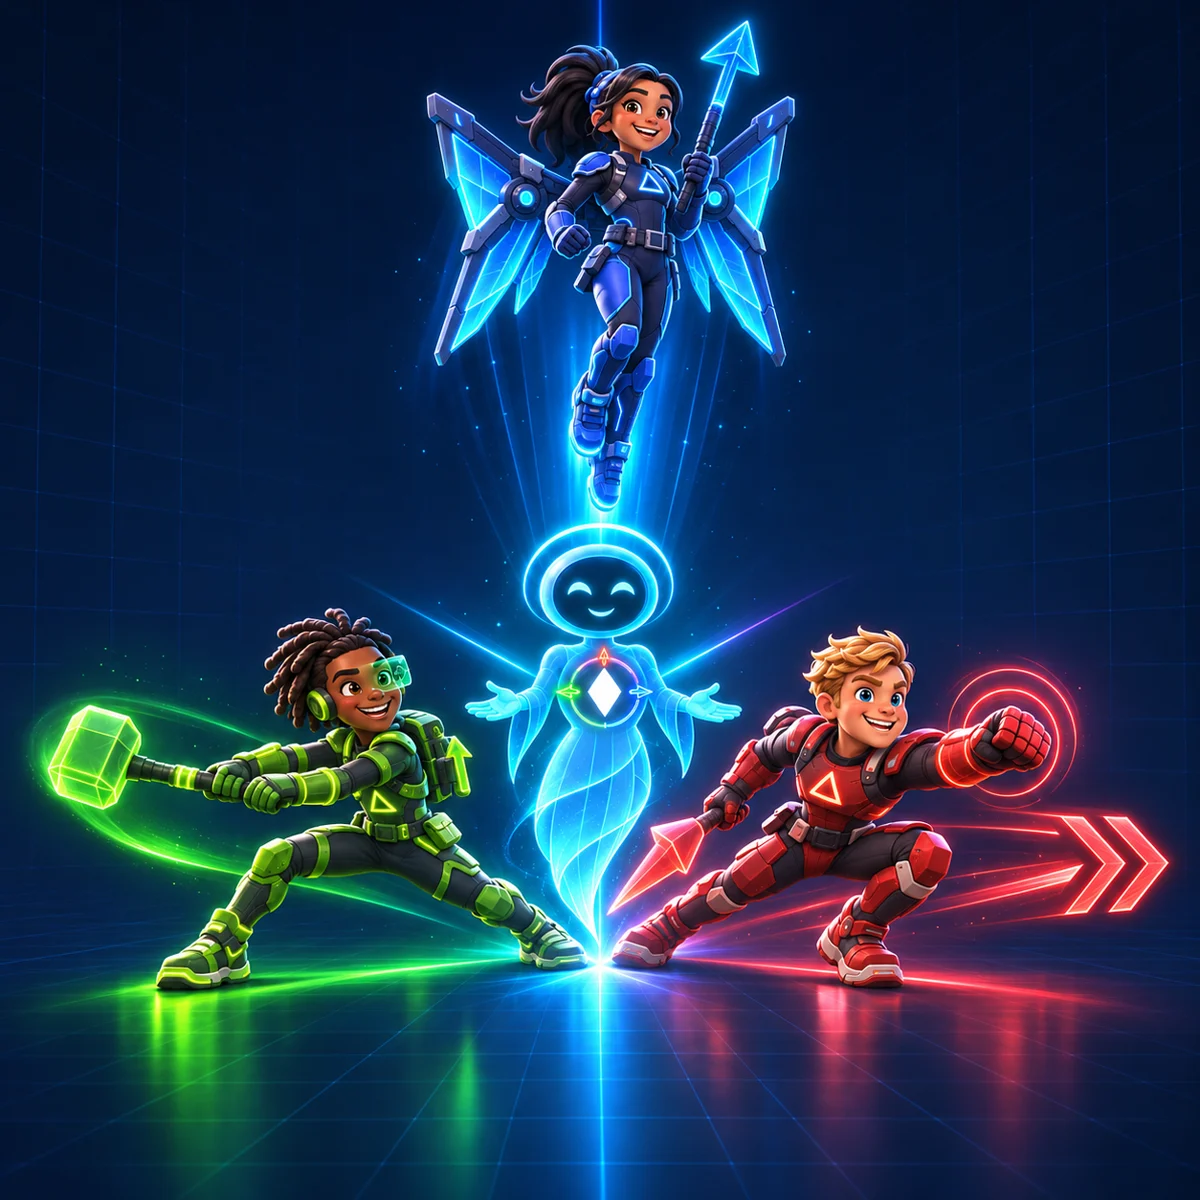
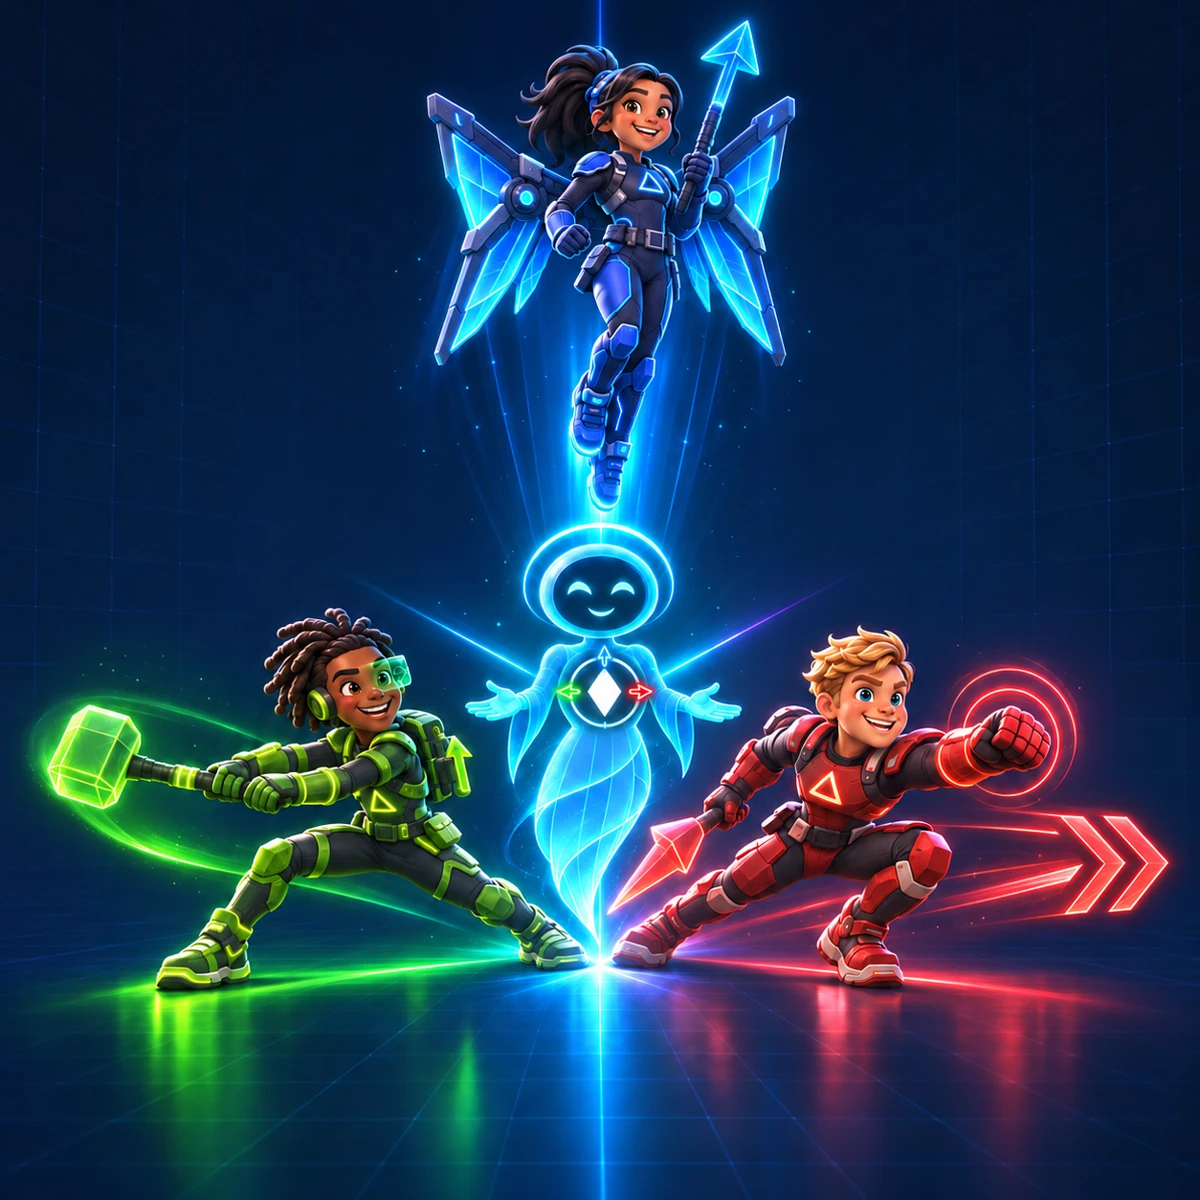
Correct EVE artwork and refine city interaction

diff --git a/index.html b/index.html
@@ -7,8 +7,8 @@
   <meta name="theme-color" content="#061226">
   <title>Logic League — Think in every direction</title>
   <link rel="icon" href="assets/logic-league-emblem-approved.png" type="image/png">
-  <link rel="stylesheet" href="styles.css?v=20261108-3">
-  <script src="script.js?v=20261108-3" defer></script>
+  <link rel="stylesheet" href="styles.css?v=20261108-4">
+  <script src="script.js?v=20261108-4" defer></script>
 </head>
 <body>
   <a class="skip-link" href="#main">Skip to the adventure</a>
@@ -22,21 +22,20 @@
       <div class="world-banner">
         <canvas class="point-cloud-city" id="point-cloud-city" aria-hidden="true"></canvas>
         <div class="banner-city" aria-hidden="true"><span></span><span></span><span></span><span></span><span></span><span></span><span></span></div>
-        <img class="banner-living-emblem" src="assets/logic-league-living-emblem-approved.webp" alt="Xander, Yuri, Zaya, and EVE forming the living Logic League emblem">
+        <img class="banner-living-emblem" src="assets/logic-league-living-emblem-approved.webp?v=axis-v2" alt="Xander, Yuri, Zaya, and EVE forming the living Logic League emblem">
         <div class="banner-wordmark"><small>Welcome to Point Cloud City</small><strong>Logic League</strong><p>Think in every direction.</p></div>
-        <span class="city-hint" aria-hidden="true"><i></i> Tap the city lights</span>
       </div>
       <div class="hero-copy">
         <p class="kicker">A world of friends, glitches, and big ideas</p>
         <h1 id="hero-title">Every problem<br>has a direction.</h1>
-        <p>When the digital world gets twisted, three friends and one brilliant guide jump in to spot the clue, test a plan, and repair the day.</p>
+        <p>When the digital world gets twisted, three young agents and one brilliant guide jump in to spot the clue, test a plan, and repair the day.</p>
         <div class="hero-actions"><a class="button primary" href="#league">Meet the League</a><a class="button secondary" href="#play">Play a mission</a></div>
       </div>
       <div class="scroll-signal" aria-hidden="true">Scroll to enter Point Cloud City ↓</div>
     </section>
 
     <section class="civilian-story section" id="league" aria-labelledby="friends-title">
-      <div class="section-heading"><p class="kicker">Before the mission</p><h2 id="friends-title">They were friends first.</h2><p>Xander, Yuri, and Zaya have homework, practice, jokes, and plenty to talk about. Then Point Cloud City calls—and everything they know becomes part of the solution.</p></div>
+      <div class="section-heading"><p class="kicker">Off duty in Point Cloud City</p><h2 id="friends-title">The mission made them a team.</h2><p>Baby Chief recruited three young agents who had never met. EVE taught them how to move as one; the missions made them the League, and everything between missions made them friends.</p></div>
       <figure class="civilian-scene"><img src="assets/core/civilian-friends.webp" alt="Xander with a football, Yuri with a tennis racket, and Zaya with her gym bag walking through Point Cloud City after school"><figcaption><span><b>Xander</b> brings the drive.</span><span><b>Yuri</b> sees the possibilities.</span><span><b>Zaya</b> lifts the whole team.</span></figcaption></figure>
     </section>
 
@@ -65,7 +64,7 @@
     </section>
 
     <section class="emblem-story section" aria-labelledby="movement-title">
-      <div class="emblem-mark"><img src="assets/logic-league-emblem-approved.png" alt="The compact Logic League emblem"><span class="orbit one" aria-hidden="true"></span><span class="orbit two" aria-hidden="true"></span></div>
+      <div class="emblem-mark"><img class="living-mark" src="assets/logic-league-living-emblem-approved.webp?v=axis-v2" alt="Xander, Yuri, Zaya, and EVE forming the living Logic League emblem"><span class="orbit one" aria-hidden="true"></span><span class="orbit two" aria-hidden="true"></span></div>
       <div class="emblem-copy"><p class="kicker">One mark. Four teammates.</p><h2 id="movement-title">Three moves become one.</h2><p>Xander pushes forward. Yuri shifts the field. Zaya changes the height. EVE holds the center. When they line up, the team itself becomes the Logic League emblem.</p><div class="movement-chips"><span class="x-chip">Forward</span><span class="y-chip">Across</span><span class="z-chip">Up</span><span class="e-chip">Together</span></div></div>
     </section>
 

diff --git a/styles.css b/styles.css
@@ -107,10 +107,6 @@ h2 { margin: 18px 0 24px; font-size: clamp(2.65rem, 4.6vw, 4.4rem); font-weight:
 .banner-wordmark small { color: #85dcff; font-size: .7rem; font-weight: 850; letter-spacing: .17em; text-transform: uppercase; }
 .banner-wordmark strong { display: block; margin-top: 13px; color: #fff; font-size: clamp(3rem, 5.2vw, 5.4rem); font-style: italic; font-weight: 950; letter-spacing: -.06em; line-height: .9; text-transform: uppercase; text-shadow: 0 0 32px rgb(54 188 255 / 22%); }
 .banner-wordmark p { margin: 20px 0 0; color: #cad8e8; font-size: clamp(1rem, 1.8vw, 1.35rem); font-weight: 650; letter-spacing: .04em; }
-.city-hint { position: absolute; right: 26px; bottom: 20px; z-index: 5; display: inline-flex; align-items: center; gap: 9px; color: #8bdfff; font-size: .58rem; font-weight: 850; letter-spacing: .13em; text-transform: uppercase; pointer-events: none; }
-.city-hint i { width: 8px; height: 8px; border: 1px solid currentcolor; border-radius: 50%; box-shadow: 0 0 0 5px rgb(90 213 255 / 9%), 0 0 18px #4acfff; }
-.city-pulsed .city-hint i { animation: cityHintPulse 700ms ease-out; }
-@keyframes cityHintPulse { to { box-shadow: 0 0 0 22px transparent, 0 0 28px #4acfff; transform: scale(.7); } }
 .hero-copy { display: grid; grid-template-columns: 1.2fr .8fr; column-gap: 70px; align-items: end; margin-top: 52px; }
 .hero-copy .kicker { grid-column: 1 / -1; }
 .hero-copy > p:not(.kicker) { max-width: 520px; margin: 0 0 32px; color: #bfd0e2; font-size: 1.08rem; line-height: 1.76; }
@@ -151,6 +147,7 @@ h2 { margin: 18px 0 24px; font-size: clamp(2.65rem, 4.6vw, 4.4rem); font-weight:
 .emblem-mark { position: relative; display: grid; aspect-ratio: 1; place-items: center; }
 .emblem-mark::before { position: absolute; inset: 10%; border-radius: 50%; background: radial-gradient(circle, rgb(14 128 203 / 26%), transparent 65%); content: ""; }
 .emblem-mark img { position: relative; z-index: 2; width: 78%; border-radius: 16%; object-fit: cover; filter: drop-shadow(0 0 35px rgb(36 181 255 / 20%)); }
+.emblem-mark .living-mark { width: 100%; border-radius: 26px; -webkit-mask-image: radial-gradient(circle, #000 58%, transparent 94%); mask-image: radial-gradient(circle, #000 58%, transparent 94%); mix-blend-mode: screen; }
 .orbit { position: absolute; inset: 9%; border: 1px dotted rgb(97 208 255 / 42%); border-radius: 50%; animation: orbit 22s linear infinite; }
 .orbit.two { inset: 20%; border-color: rgb(176 89 255 / 42%); animation-direction: reverse; animation-duration: 15s; }
 @keyframes orbit { to { transform: rotate(360deg); } }
@@ -279,7 +276,6 @@ footer .brand img { width: 40px; height: 40px; }
   .banner-living-emblem { height: 310px; padding: 18px 20px 0; }
   .banner-wordmark { margin-top: -16px; padding: 0 28px 54px; text-align: center; }
   .banner-wordmark strong { font-size: clamp(3rem, 14vw, 5rem); }
-  .city-hint { right: 18px; bottom: 16px; }
   .hero-copy { margin-top: 48px; }
   .scroll-signal { display: none; }
   .civilian-scene { border-radius: 18px; }
@@ -324,6 +320,6 @@ footer .brand img { width: 40px; height: 40px; }
 
 @media (prefers-reduced-motion: reduce) {
   html { scroll-behavior: auto; }
-  .orbit, .glitch-bug, .data-bunny, .pulse-shot, .miss-pulse, .city-hint i { animation: none; }
+  .orbit, .glitch-bug, .data-bunny, .pulse-shot, .miss-pulse { animation: none; }
   .memory-card, .character-grid article, .repair-drone { transition: none; }
 }

diff --git a/script.js b/script.js
@@ -85,6 +85,9 @@ async function initPointCloudCity() {
     let pointerX = 0;
     let pointerY = 0;
     let pulse = null;
+    let lastHoverPulse = 0;
+    let lastHoverX = 0;
+    let lastHoverY = 0;
     let frame = 0;
     const reducedMotion = window.matchMedia('(prefers-reduced-motion: reduce)').matches;
     const positionAttribute = geometry.getAttribute('position');
@@ -109,12 +112,32 @@ async function initPointCloudCity() {
       const relativeX = Math.max(0, Math.min(1, (event.clientX - rect.left) / rect.width));
       const relativeY = Math.max(0, Math.min(1, (event.clientY - rect.top) / rect.height));
       pulse = { x: (relativeX - .5) * 20, z: (relativeY - .48) * 8, started: performance.now() };
-      banner.classList.remove('city-pulsed');
-      requestAnimationFrame(() => banner.classList.add('city-pulsed'));
     };
 
-    banner.addEventListener('pointermove', setPointer);
-    banner.addEventListener('pointerdown', launchPulse);
+    const reactToPointer = (event) => {
+      setPointer(event);
+      if (event.pointerType !== 'mouse') return;
+      const now = performance.now();
+      const travel = Math.hypot(event.clientX - lastHoverX, event.clientY - lastHoverY);
+      if (now - lastHoverPulse > 420 && travel > 34) {
+        launchPulse(event);
+        lastHoverPulse = now;
+        lastHoverX = event.clientX;
+        lastHoverY = event.clientY;
+      }
+    };
+
+    banner.addEventListener('pointerenter', (event) => {
+      setPointer(event);
+      if (event.pointerType === 'mouse') {
+        launchPulse(event);
+        lastHoverPulse = performance.now();
+        lastHoverX = event.clientX;
+        lastHoverY = event.clientY;
+      }
+    });
+    banner.addEventListener('pointermove', reactToPointer);
+    banner.addEventListener('pointerdown', (event) => { if (event.pointerType !== 'mouse') launchPulse(event); });
     new ResizeObserver(resize).observe(banner);
     resize();
     banner.classList.add('city-live');
